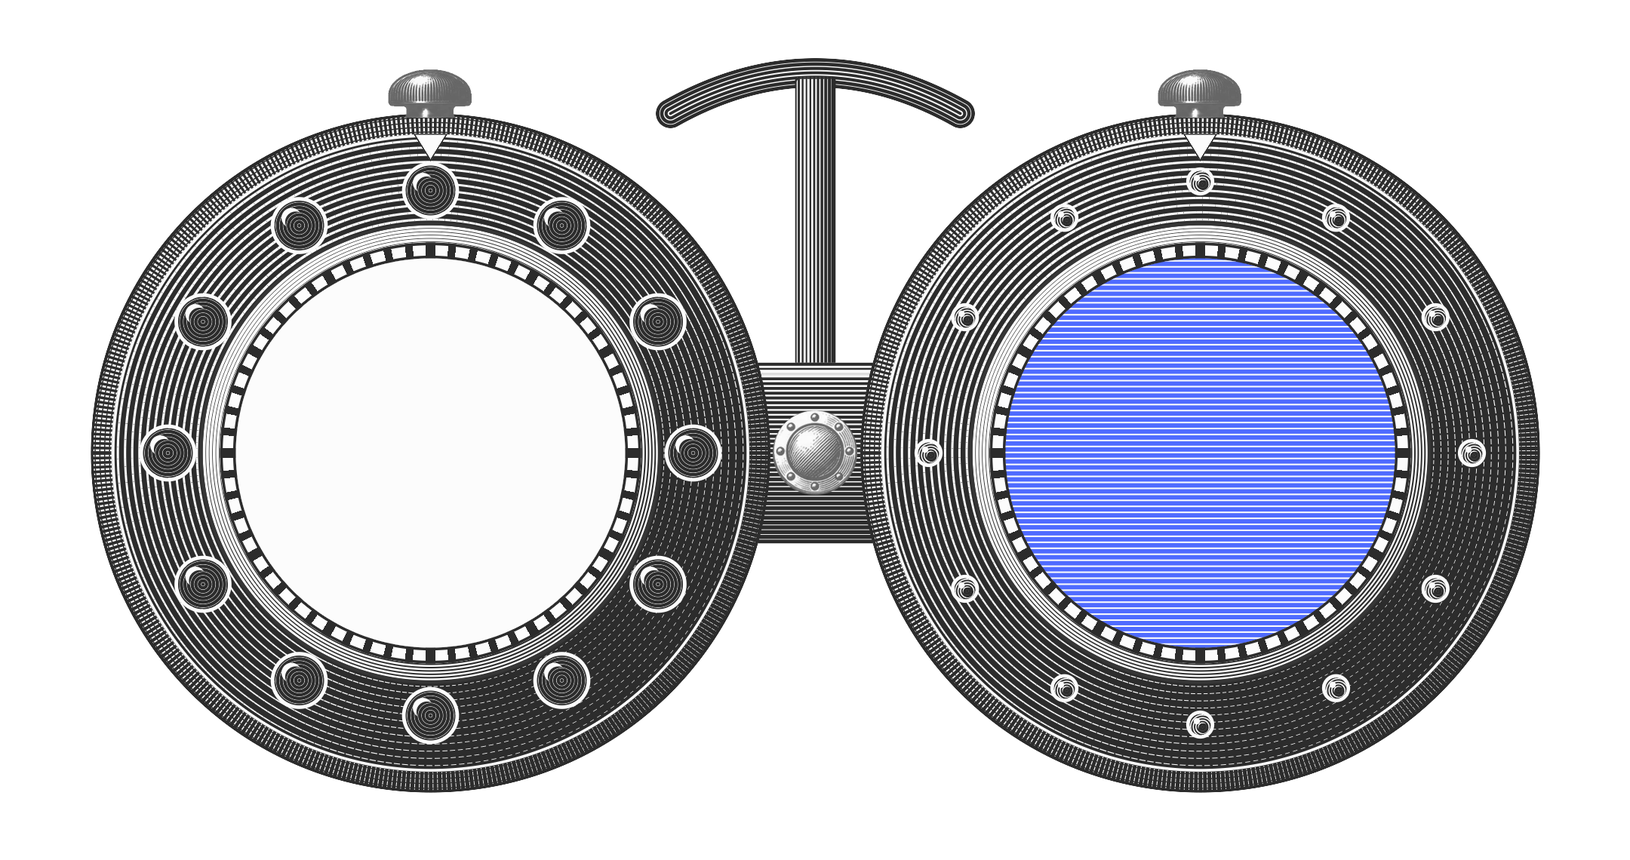
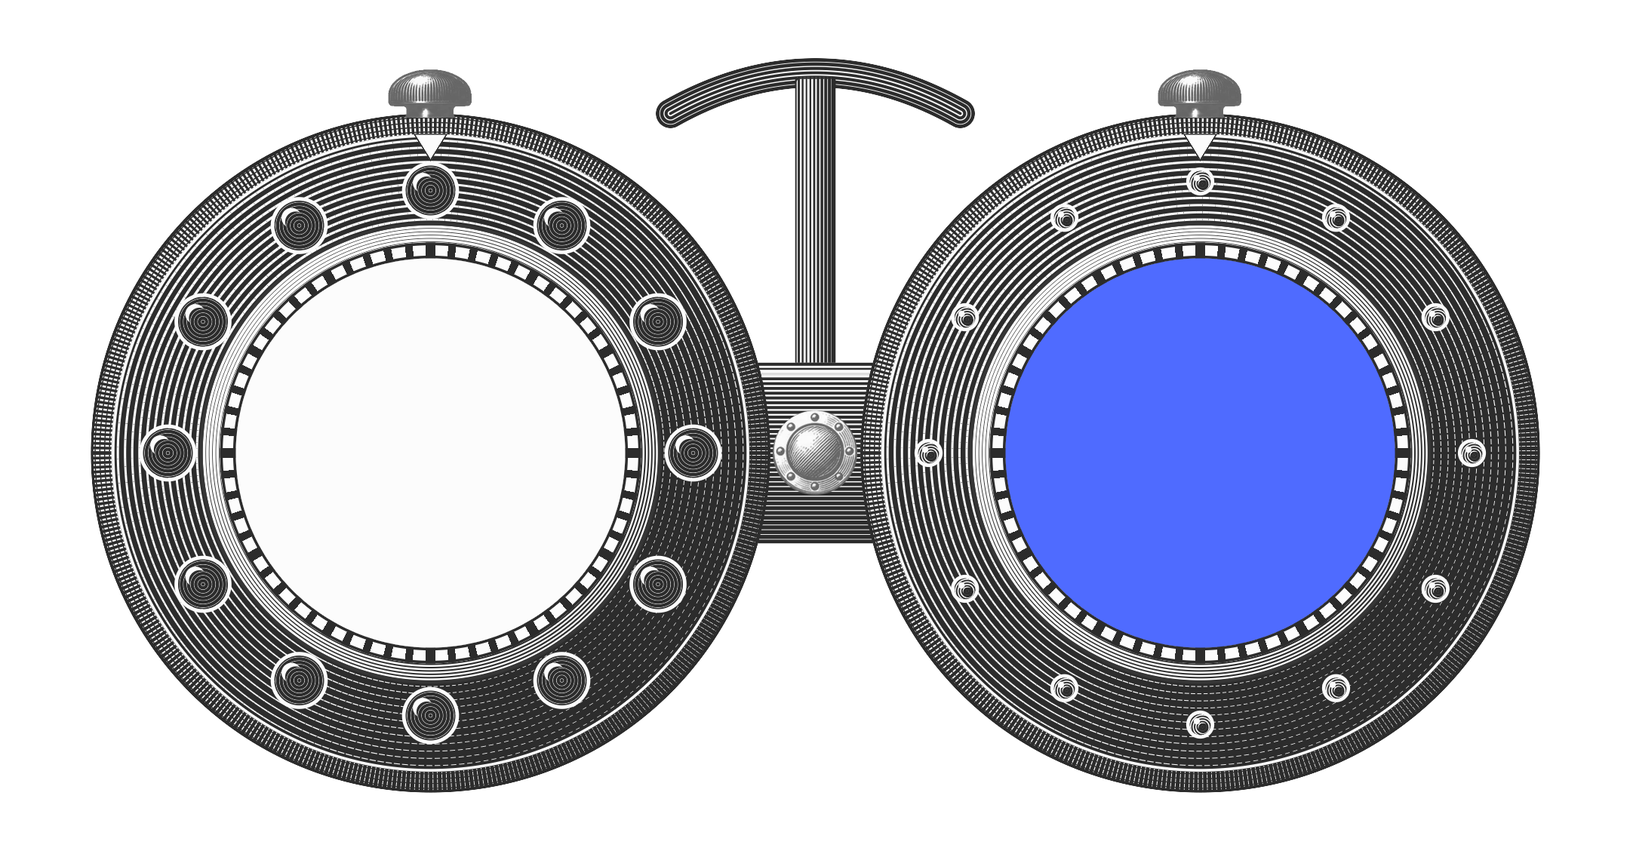
RATIO e CERNE: relógio sem placa, seta para o botão, CERNE na ordem das áreas
Relógio: sai a placa (RATIO e o fio) e o anel de accent; o relógio sobe e o
respiro diminui. "Iniciar demonstração" vem para cima do relógio, centrado;
à direita, uma seta de grafite translúcida aparece, avança e some,
apontando para o botão do humano, que sobe e desce até ser apertado. No
celular estreito, sem espaço à direita do rótulo, fica só o vaivém.

CERNE: o azul em volta do olho fica liso, a pele da esfinge do ícone. O
painel segue a ordem das outras áreas: ficha em três blocos sob o título,
depois o foróptero, com "Iniciar a rodada" acima dele, centrado.

Claude-Session: https://claude.ai/code/session_01LCaDHnWEHoCNh9cw6AMUA9

Changed region(s): [[0.6204, 0.307, 0.8685, 0.7675]]

diff --git a/en/arco.html b/en/arco.html
@@ -110,9 +110,9 @@
 <script src="../assets/arco/js/arco-rail-final.js?v=20261118-kit" defer></script>
 <link rel="stylesheet" href="../assets/arco/css/arco-home.css?v=20261128-revisao">
 <script src="../assets/arco/js/arco-home.en.js?v=20261128-partitura" defer></script>
-<link rel="stylesheet" href="../assets/atrio/demonstracao/repouso.css?v=20261128-foroptero">
-<script type="module" src="../assets/atrio/demonstracao/gatilho.js?v=20261128-foroptero"></script>
-<link rel="stylesheet" href="../assets/cerne/css/cerne-lentes.css?v=20261128-buril">
+<link rel="stylesheet" href="../assets/atrio/demonstracao/repouso.css?v=20261128-seta">
+<script type="module" src="../assets/atrio/demonstracao/gatilho.js?v=20261128-seta"></script>
+<link rel="stylesheet" href="../assets/cerne/css/cerne-lentes.css?v=20261128-seta">
 <script src="../assets/cerne/js/cerne-lentes.js?v=20261128-buril" defer></script>
 <script src="../assets/arco/js/arco-origem.js?v=20261127-resultado" defer></script>
 <script src="../assets/arco/js/arco-partitura.js?v=20261128-inteira" defer></script>
@@ -400,8 +400,13 @@
                em assets/atrio/demonstracao/gatilho.js. -->
           <div class="ld-repouso">
             <button class="ld-gatilho" type="button" data-ld-gatilho aria-controls="demonstracao" aria-expanded="false">
+              <span class="ld-gatilho__topo">
+                <span class="ld-gatilho__rotulo">Start the demonstration</span>
+                <!-- seta de grafite, à direita do rótulo, apontando para o botão do humano;
+                     o ângulo vem de gatilho.js (--ld-seta-ang), conforme a largura do relógio -->
+                <span class="ld-gatilho__seta" aria-hidden="true"><svg viewBox="0 0 64 40" focusable="false"><path d="M2 14.5 H38 V3 L62 20 L38 37 V25.5 H2 Z"/></svg></span>
+              </span>
               <span class="ld-relogio" aria-hidden="true">
-                <span class="ld-relogio__placa"><span class="ld-relogio__marca">R<em>A</em>TIO</span></span>
                 <span class="ld-relogio__inst">
                   <img class="ld-relogio__corpo" src="../assets/atrio/ratio/relogio-corpo.webp?v=20261128-buril" alt="" width="1376" height="970" loading="lazy" decoding="async">
                   <svg class="ld-relogio__mostra" viewBox="0 0 1376 970" focusable="false">
@@ -412,7 +417,6 @@
                   <span class="ld-relogio__botao" data-dono="humano"><span class="ld-relogio__poco"><img src="../assets/atrio/ratio/relogio-botao.webp?v=20261128-buril" alt="" width="205" height="127" loading="lazy" decoding="async"></span></span>
                 </span>
               </span>
-              <span class="ld-gatilho__rotulo">Start the demonstration</span>
             </button>
           </div>
         </section>
@@ -435,20 +439,30 @@
           </div>
         </div>
 
-        <!-- 04 — AI GOVERNANCE & EVALUATION / CERNE: em coluna única. Sob o título,
-             as lentes (o foróptero), sem texto em volta; depois a ficha, em três
-             blocos lado a lado, o Fundamento e a faixa. -->
+        <!-- 04 — AI GOVERNANCE & EVALUATION / CERNE: na ordem das outras áreas. Sob o
+             título, a ficha em três blocos lado a lado; depois o foróptero, com a
+             indicação acima dele; por fim, o resultado, o Fundamento e a faixa. -->
         <section class="hm-panel hm-proj hm-proj--cerne" data-sobra="6" id="ai-governance" aria-labelledby="t-cerne">
           <h2 class="hm-title hm-title--area" id="t-cerne" data-fit="titulo"><span class="hm-fit">AI Governance &amp; Evaluation</span></h2>
-          <!-- CERNE: as lentes. O foróptero, logo abaixo do título e em coluna única.
-               O próprio aparelho é o botão: abre a rodada do caso 0012345 no 4º estado
-               da demonstração (#demonstracao, logo acima), com linguagem própria; a
-               indicação abaixo dele diz se o clique inicia ou continua a rodada.
-               Desenho em assets/cerne/css/cerne-lentes.css; acionamento em
-               assets/cerne/js/cerne-lentes.js e assets/atrio/demonstracao/gatilho.js. -->
+          <div class="hm-trilho">
+            <div class="hm-lado">
+              <div class="hm-ficha">
+              <div class="hm-ficha__b hm-ficha__b--tese"><h3 class="hm-tese">confront <span class="hm-ne hm-ne--cerne">≠</span> audit</h3><p>Output accelerated, and the corrections queue came to concentrate the cost of reviewing AI-mediated reasoning.</p></div>
+              <div class="hm-ficha__b"><h3>The system</h3><p>Independent lenses examine the ruling’s premises, inferences and grounds before the fluency of the text hides the flaw.</p></div>
+              <div class="hm-ficha__b"><h3>What it measured</h3><p>15 of 17 rulings completed on the first attempt. In 9 of 12 rulings, at least one question on a point open to a motion for clarification; in 7, on the point later corrected.</p></div>
+            </div>
+            </div>
+          </div>
+          <!-- CERNE: as lentes (o foróptero), abaixo da ficha. O próprio aparelho é o
+               botão: abre a rodada do caso 0012345 na superfície logo abaixo dele
+               (#demonstracao-cerne); a indicação acima diz se o clique inicia ou
+               continua a rodada. Desenho em assets/cerne/css/cerne-lentes.css;
+               acionamento em assets/cerne/js/cerne-lentes.js e
+               assets/atrio/demonstracao/gatilho.js. -->
           <figure class="cl" data-cl data-estado="repouso">
+            <p class="cl__rotulo" data-cl-rotulo aria-hidden="true">Start the round</p>
             <div class="cl__inst">
-              <img class="cl__corpo" src="../assets/cerne/img/foroptero-1x.webp?v=20261128-buril" srcset="../assets/cerne/img/foroptero-1x.webp?v=20261128-buril 1080w, ../assets/cerne/img/foroptero-2x.webp?v=20261128-buril 2160w" sizes="(min-width: 1100px) 1040px, 100vw" width="1080" height="570" alt="" loading="lazy" decoding="async">
+              <img class="cl__corpo" src="../assets/cerne/img/foroptero-1x.webp?v=20261128-liso" srcset="../assets/cerne/img/foroptero-1x.webp?v=20261128-liso 1080w, ../assets/cerne/img/foroptero-2x.webp?v=20261128-liso 2160w" sizes="(min-width: 1100px) 1040px, 100vw" width="1080" height="570" alt="" loading="lazy" decoding="async">
               <div class="cl__jan cl__jan--e" aria-hidden="true">
                 <!-- Trechos da minuta do caso 0012345 que levaram aos achados (parágrafos 7, 8 e 12),
                      tal como registrados em assets/atrio/demonstracao/dados-cerne.js. Ficam em
@@ -468,22 +482,12 @@
               </div>
               <button class="cl__gatilho" type="button" data-cl-play data-ld-ir="cerne" aria-controls="demonstracao-cerne" aria-expanded="false" aria-label="Start the CERNE round" hidden></button>
             </div>
-            <p class="cl__rotulo" data-cl-rotulo aria-hidden="true">Start the round</p>
             <p class="arx-sr" role="status" data-cl-status></p>
             <!-- Superfície da rodada do CERNE: a mesma da jornada do ATRIO, com a mesma
                  dinâmica (sem altura até o clique; desce logo abaixo do foróptero e desloca o
                  que vem depois). Abrir uma fecha a outra (assets/atrio/demonstracao/gatilho.js). -->
             <div class="ld ld--cerne" id="demonstracao-cerne" data-ld-cerne hidden></div>
           </figure>
-          <div class="hm-trilho">
-            <div class="hm-lado">
-              <div class="hm-ficha">
-              <div class="hm-ficha__b hm-ficha__b--tese"><h3 class="hm-tese">confront <span class="hm-ne hm-ne--cerne">≠</span> audit</h3><p>Output accelerated, and the corrections queue came to concentrate the cost of reviewing AI-mediated reasoning.</p></div>
-              <div class="hm-ficha__b"><h3>The system</h3><p>Independent lenses examine the ruling’s premises, inferences and grounds before the fluency of the text hides the flaw.</p></div>
-              <div class="hm-ficha__b"><h3>What it measured</h3><p>15 of 17 rulings completed on the first attempt. In 9 of 12 rulings, at least one question on a point open to a motion for clarification; in 7, on the point later corrected.</p></div>
-            </div>
-            </div>
-          </div>
           <div class="hm-res hm-res--cerne">
             <p class="hm-res__m"><b class="hm-res__n">+23%</b><span class="hm-res__l">in throughput, a metric tracked along the way until it revealed the need to govern reasoning</span></p>
             <div class="hm-res__c">

diff --git a/arco.html b/arco.html
@@ -109,9 +109,9 @@
 <script src="assets/arco/js/arco-rail-final.js?v=20261118-kit" defer></script>
 <link rel="stylesheet" href="assets/arco/css/arco-home.css?v=20261128-revisao">
 <script src="assets/arco/js/arco-home.js?v=20261128-partitura" defer></script>
-<link rel="stylesheet" href="assets/atrio/demonstracao/repouso.css?v=20261128-foroptero">
-<script type="module" src="assets/atrio/demonstracao/gatilho.js?v=20261128-foroptero"></script>
-<link rel="stylesheet" href="assets/cerne/css/cerne-lentes.css?v=20261128-buril">
+<link rel="stylesheet" href="assets/atrio/demonstracao/repouso.css?v=20261128-seta">
+<script type="module" src="assets/atrio/demonstracao/gatilho.js?v=20261128-seta"></script>
+<link rel="stylesheet" href="assets/cerne/css/cerne-lentes.css?v=20261128-seta">
 <script src="assets/cerne/js/cerne-lentes.js?v=20261128-buril" defer></script>
 <script src="assets/arco/js/arco-origem.js?v=20261127-resultado" defer></script>
 <script src="assets/arco/js/arco-partitura.js?v=20261128-inteira" defer></script>
@@ -405,8 +405,13 @@
                em assets/atrio/demonstracao/gatilho.js. -->
           <div class="ld-repouso">
             <button class="ld-gatilho" type="button" data-ld-gatilho aria-controls="demonstracao" aria-expanded="false">
+              <span class="ld-gatilho__topo">
+                <span class="ld-gatilho__rotulo">Iniciar demonstração</span>
+                <!-- seta de grafite, à direita do rótulo, apontando para o botão do humano;
+                     o ângulo vem de gatilho.js (--ld-seta-ang), conforme a largura do relógio -->
+                <span class="ld-gatilho__seta" aria-hidden="true"><svg viewBox="0 0 64 40" focusable="false"><path d="M2 14.5 H38 V3 L62 20 L38 37 V25.5 H2 Z"/></svg></span>
+              </span>
               <span class="ld-relogio" aria-hidden="true">
-                <span class="ld-relogio__placa"><span class="ld-relogio__marca">R<em>A</em>TIO</span></span>
                 <span class="ld-relogio__inst">
                   <img class="ld-relogio__corpo" src="assets/atrio/ratio/relogio-corpo.webp?v=20261128-buril" alt="" width="1376" height="970" loading="lazy" decoding="async">
                   <svg class="ld-relogio__mostra" viewBox="0 0 1376 970" focusable="false">
@@ -417,7 +422,6 @@
                   <span class="ld-relogio__botao" data-dono="humano"><span class="ld-relogio__poco"><img src="assets/atrio/ratio/relogio-botao.webp?v=20261128-buril" alt="" width="205" height="127" loading="lazy" decoding="async"></span></span>
                 </span>
               </span>
-              <span class="ld-gatilho__rotulo">Iniciar demonstração</span>
             </button>
           </div>
         </section>
@@ -440,20 +444,30 @@
           </div>
         </div>
 
-        <!-- 04 — AI GOVERNANCE & EVALUATION / CERNE: em coluna única. Sob o título,
-             as lentes (o foróptero), sem texto em volta; depois a ficha, em três
-             blocos lado a lado, o Fundamento e a faixa. -->
+        <!-- 04 — AI GOVERNANCE & EVALUATION / CERNE: na ordem das outras áreas. Sob o
+             título, a ficha em três blocos lado a lado; depois o foróptero, com a
+             indicação acima dele; por fim, o resultado, o Fundamento e a faixa. -->
         <section class="hm-panel hm-proj hm-proj--cerne" data-sobra="6" id="ai-governance" aria-labelledby="t-cerne">
           <h2 class="hm-title hm-title--area" id="t-cerne" data-fit="titulo"><span class="hm-fit">AI Governance &amp; Evaluation</span></h2>
-          <!-- CERNE: as lentes. O foróptero, logo abaixo do título e em coluna única.
-               O próprio aparelho é o botão: abre a rodada do caso 0012345 no 4º estado
-               da demonstração (#demonstracao, logo acima), com linguagem própria; a
-               indicação abaixo dele diz se o clique inicia ou continua a rodada.
-               Desenho em assets/cerne/css/cerne-lentes.css; acionamento em
-               assets/cerne/js/cerne-lentes.js e assets/atrio/demonstracao/gatilho.js. -->
+          <div class="hm-trilho">
+            <div class="hm-lado">
+              <div class="hm-ficha">
+              <div class="hm-ficha__b hm-ficha__b--tese"><h3 class="hm-tese">confrontar <span class="hm-ne hm-ne--cerne">≠</span> auditar</h3><p>A produção acelerou e a fila de correções passou a concentrar o custo de revisar raciocínios mediados por IA.</p></div>
+              <div class="hm-ficha__b"><h3>O sistema</h3><p>Lentes independentes examinam premissas, inferências e fundamentos do ato, antes que a fluência do texto oculte a falha.</p></div>
+              <div class="hm-ficha__b"><h3>O que mediu</h3><p>15 de 17 atos concluídos na primeira tentativa. Em 9 de 12 atos, ao menos uma pergunta sobre ponto embargável; em 7, sobre o ponto depois corrigido.</p></div>
+            </div>
+            </div>
+          </div>
+          <!-- CERNE: as lentes (o foróptero), abaixo da ficha. O próprio aparelho é o
+               botão: abre a rodada do caso 0012345 na superfície logo abaixo dele
+               (#demonstracao-cerne); a indicação acima diz se o clique inicia ou
+               continua a rodada. Desenho em assets/cerne/css/cerne-lentes.css;
+               acionamento em assets/cerne/js/cerne-lentes.js e
+               assets/atrio/demonstracao/gatilho.js. -->
           <figure class="cl" data-cl data-estado="repouso">
+            <p class="cl__rotulo" data-cl-rotulo aria-hidden="true">Iniciar a rodada</p>
             <div class="cl__inst">
-              <img class="cl__corpo" src="assets/cerne/img/foroptero-1x.webp?v=20261128-buril" srcset="assets/cerne/img/foroptero-1x.webp?v=20261128-buril 1080w, assets/cerne/img/foroptero-2x.webp?v=20261128-buril 2160w" sizes="(min-width: 1100px) 1040px, 100vw" width="1080" height="570" alt="" loading="lazy" decoding="async">
+              <img class="cl__corpo" src="assets/cerne/img/foroptero-1x.webp?v=20261128-liso" srcset="assets/cerne/img/foroptero-1x.webp?v=20261128-liso 1080w, assets/cerne/img/foroptero-2x.webp?v=20261128-liso 2160w" sizes="(min-width: 1100px) 1040px, 100vw" width="1080" height="570" alt="" loading="lazy" decoding="async">
               <div class="cl__jan cl__jan--e" aria-hidden="true">
                 <!-- Trechos da minuta do caso 0012345 que levaram aos achados (parágrafos 7, 8 e 12),
                      tal como registrados em assets/atrio/demonstracao/dados-cerne.js. Ficam em
@@ -473,22 +487,12 @@
               </div>
               <button class="cl__gatilho" type="button" data-cl-play data-ld-ir="cerne" aria-controls="demonstracao-cerne" aria-expanded="false" aria-label="Iniciar a rodada do CERNE" hidden></button>
             </div>
-            <p class="cl__rotulo" data-cl-rotulo aria-hidden="true">Iniciar a rodada</p>
             <p class="arx-sr" role="status" data-cl-status></p>
             <!-- Superfície da rodada do CERNE: a mesma da jornada do ATRIO, com a mesma
                  dinâmica (sem altura até o clique; desce logo abaixo do foróptero e desloca o
                  que vem depois). Abrir uma fecha a outra (assets/atrio/demonstracao/gatilho.js). -->
             <div class="ld ld--cerne" id="demonstracao-cerne" data-ld-cerne hidden></div>
           </figure>
-          <div class="hm-trilho">
-            <div class="hm-lado">
-              <div class="hm-ficha">
-              <div class="hm-ficha__b hm-ficha__b--tese"><h3 class="hm-tese">confrontar <span class="hm-ne hm-ne--cerne">≠</span> auditar</h3><p>A produção acelerou e a fila de correções passou a concentrar o custo de revisar raciocínios mediados por IA.</p></div>
-              <div class="hm-ficha__b"><h3>O sistema</h3><p>Lentes independentes examinam premissas, inferências e fundamentos do ato, antes que a fluência do texto oculte a falha.</p></div>
-              <div class="hm-ficha__b"><h3>O que mediu</h3><p>15 de 17 atos concluídos na primeira tentativa. Em 9 de 12 atos, ao menos uma pergunta sobre ponto embargável; em 7, sobre o ponto depois corrigido.</p></div>
-            </div>
-            </div>
-          </div>
           <div class="hm-res hm-res--cerne">
             <p class="hm-res__m"><b class="hm-res__n">+23%</b><span class="hm-res__l">de vazão, métrica acompanhada ao longo da trajetória até revelar a necessidade de governar o raciocínio</span></p>
             <div class="hm-res__c">

diff --git a/assets/atrio/demonstracao/repouso.css b/assets/atrio/demonstracao/repouso.css
@@ -145,3 +145,56 @@
    jornada. No celular, as duas já ficam a --g das bordas. */
 .cl .ld--cerne{ margin:calc(var(--u, 8px) * 3) calc(-1 * var(--g, 16px)) 0; text-align:left; }
 @media (max-width:900px){ .cl .ld--cerne{ margin-inline:0; } }
+
+/* ==========================================================================
+   Relógio sem placa (28/11/2026)
+   Sai a placa (RATIO e o fio); o relógio sobe e o respiro diminui. A
+   indicação "Iniciar demonstração" vem para cima do relógio, centrada; à
+   direita dela, uma seta de grafite translúcida aparece, avança um pouco e
+   some, apontando para o botão do humano, que sobe e desce até ser
+   apertado. O anel de accent em volta do botão sai.
+   ========================================================================== */
+.ld-repouso{ padding:calc(var(--u, 8px) * 2) 0 calc(var(--row) * .5); }
+.ld-relogio__placa{ display:none; }
+
+.ld-gatilho__topo{ position:relative; display:block; width:max-content; max-width:100%; margin:0 auto 1.1rem; }
+.ld-gatilho__topo .ld-gatilho__rotulo{ margin:0; }
+
+/* o anel persistente sai */
+.ld-gatilho[data-ld-pronto] .ld-relogio__botao[data-dono="humano"]::before{ content:none; animation:none; }
+
+/* a seta: grafite translúcido, movimento curto; o ângulo vem de gatilho.js */
+.ld-gatilho__seta{
+  --a:var(--ld-seta-ang, 40deg);
+  position:absolute; left:calc(100% + 14px); top:50%;
+  width:42px; height:26px; pointer-events:none; opacity:0;
+  transform:translateY(-50%) rotate(var(--a));
+}
+.ld-gatilho__seta svg{ display:block; width:100%; height:100%; fill:#2C2C2C; }
+.ld-gatilho[data-ld-pronto]:not([data-ld-apertado]):not([aria-expanded="true"]) .ld-gatilho__seta{
+  animation:ld-seta 1.9s cubic-bezier(.32,.72,0,1) infinite;
+}
+@keyframes ld-seta{
+  0%{ opacity:0; transform:translateY(-50%) rotate(var(--a)) translateX(-7px); }
+  30%{ opacity:.62; }
+  70%{ opacity:.62; transform:translateY(-50%) rotate(var(--a)) translateX(3px); }
+  100%{ opacity:0; transform:translateY(-50%) rotate(var(--a)) translateX(6px); }
+}
+
+/* o botão do humano sobe e desce, no compasso da seta, até ser apertado */
+.ld-gatilho[data-ld-pronto]:not([data-ld-apertado]):not([aria-expanded="true"]):not(:hover) .ld-relogio__botao[data-dono="humano"] .ld-relogio__poco img{
+  animation:ld-tecla 1.9s cubic-bezier(.45,0,.35,1) infinite;
+}
+@keyframes ld-tecla{
+  0%, 30%, 100%{ transform:translateY(0); }
+  62%{ transform:translateY(14%); }
+}
+
+/* sem espaço à direita do rótulo (celular estreito), a seta não entra */
+@media (max-width:520px){ .ld-gatilho__seta{ display:none; } }
+
+@media (prefers-reduced-motion:reduce){
+  .ld-gatilho__seta{ animation:none !important; }
+  .ld-gatilho[data-ld-pronto]:not([data-ld-apertado]):not([aria-expanded="true"]) .ld-gatilho__seta{ opacity:.5; }
+  .ld-relogio__botao[data-dono="humano"] .ld-relogio__poco img{ animation:none !important; }
+}

diff --git a/assets/atrio/demonstracao/gatilho.js b/assets/atrio/demonstracao/gatilho.js
@@ -14,7 +14,7 @@
      3. só com a expansão concluída e os recursos carregados a reprodução começa.
    Ao encerrar, a superfície recolhe pelo movimento inverso e some.
    ========================================================================== */
-const V = "20261128-foroptero";
+const V = "20261128-seta";
 const SUP = {
   jornada: { raiz: document.querySelector("[data-ld]"), gatilho: document.querySelector("[data-ld-gatilho]") },
   cerne: { raiz: document.querySelector("[data-ld-cerne]"), gatilho: document.querySelector("[data-cl-play]") }
@@ -103,6 +103,7 @@ if (SUP.jornada.raiz && SUP.jornada.gatilho) {
     if (estado !== "repouso") return;
     estado = "abrindo";
     seg = alvo;
+    if (seg === "jornada") SUP.jornada.gatilho.dataset.ldApertado = "";
     const { raiz, gatilho } = SUP[seg];
     const carga = carrega();
     gatilho.setAttribute("aria-expanded", "true");
@@ -209,5 +210,22 @@ if (SUP.jornada.raiz && SUP.jornada.gatilho) {
   document.querySelectorAll("[data-ld-ir]").forEach((b) => b.addEventListener("click", () => {
     setTimeout(() => abre(b.dataset.ldIr), 0);
   }));
+  /* a seta à direita de "Iniciar demonstração" aponta para o botão do humano:
+     o ângulo depende da largura do relógio, então é medido aqui */
+  const seta = SUP.jornada.gatilho.querySelector(".ld-gatilho__seta");
+  const tecla = SUP.jornada.gatilho.querySelector('.ld-relogio__botao[data-dono="humano"]');
+  const topo = SUP.jornada.gatilho.querySelector(".ld-gatilho__topo");
+  const aponta = () => {
+    if (!seta || !tecla || !topo) return;
+    const t = topo.getBoundingClientRect(), k = tecla.getBoundingClientRect();
+    const sx = t.right + 14 + 21, sy = t.top + t.height / 2;
+    const kx = k.left + k.width / 2, ky = k.top + k.height * .3;
+    SUP.jornada.gatilho.style.setProperty("--ld-seta-ang", (Math.atan2(ky - sy, kx - sx) * 180 / Math.PI).toFixed(1) + "deg");
+  };
+  if (seta) {
+    aponta();
+    if ("ResizeObserver" in window) new ResizeObserver(aponta).observe(SUP.jornada.gatilho);
+    else addEventListener("resize", aponta, { passive: true });
+  }
   SUP.jornada.gatilho.dataset.ldPronto = "";
 }

diff --git a/assets/cerne/css/cerne-lentes.css b/assets/cerne/css/cerne-lentes.css
@@ -100,8 +100,9 @@
    O corpo deixa de ser SVG chapado e passa a ser gravura, no mesmo buril do
    relógio do RATIO (assets/cerne/fonte/foroptero.py gera as duas
    resoluções): linhas de largura variável, peças em comum com o relógio
-   (botão de rebites, botões serrilhados, trilho de minutos). O azul do
-   olho já vem gravado na imagem; a janela da direita fica transparente.
+   (botão de rebites, botões serrilhados, trilho de minutos). Em volta do
+   olho, o azul é liso: a pele da esfinge, como no ícone do CERNE. Ele vem
+   na própria imagem; a janela da direita fica transparente.
    Na janela da esquerda, no lugar da interrogação, passam os trechos da
    minuta que levaram aos achados, com o parágrafo de origem.
    ========================================================================== */
@@ -135,3 +136,12 @@ img.cl__corpo{ object-fit:contain; pointer-events:none; user-select:none; }
   .cl__frase{ display:none; }
   .cl__par{ font-size:6.4cqw; font-weight:700; letter-spacing:0; }
 }
+
+/* Ordem das outras áreas (28/11/2026): ficha em três blocos logo abaixo do
+   título (fileira 3), o foróptero na fileira 4, com a indicação acima dele,
+   centrada. */
+@media (min-width:901px){
+  .hm-proj--cerne .hm-trilho{ grid-row:3; }
+  .hm-proj--cerne .cl{ grid-row:4; }
+}
+.cl__rotulo{ margin:0 auto 1.1rem; }

diff --git a/assets/cerne/fonte/foroptero.py b/assets/cerne/fonte/foroptero.py
@@ -151,12 +151,12 @@ for cx, cy, lado in ((190, 200, "e"), (530, 200, "d")):
     ring_lines = np.maximum(cov_ring(cx, cy, 86, 87.2), cov_ring(cx, cy, 91.8, 93))
     paint(c_tr, np.maximum(mark, ring_lines))
 
-    # janela: papel (à esquerda) ou campo azul gravado (à direita, o olho)
+    # janela: papel (à esquerda) ou azul liso (à direita, a pele da esfinge, sob o olho)
     c_win = cov_disc(cx, cy, 86)
     if lado == "e":
         paint(c_win, np.zeros_like(ink))
     else:
-        paint(c_win, hatch(y, .74, P * 1.25), 1.0)
+        paint(c_win, np.ones_like(ink), 1.0)   # azul liso: a pele da esfinge, como no ícone do CERNE
 
     # contorno externo
     paint(contour(c_body, 2.2), np.ones_like(ink))
